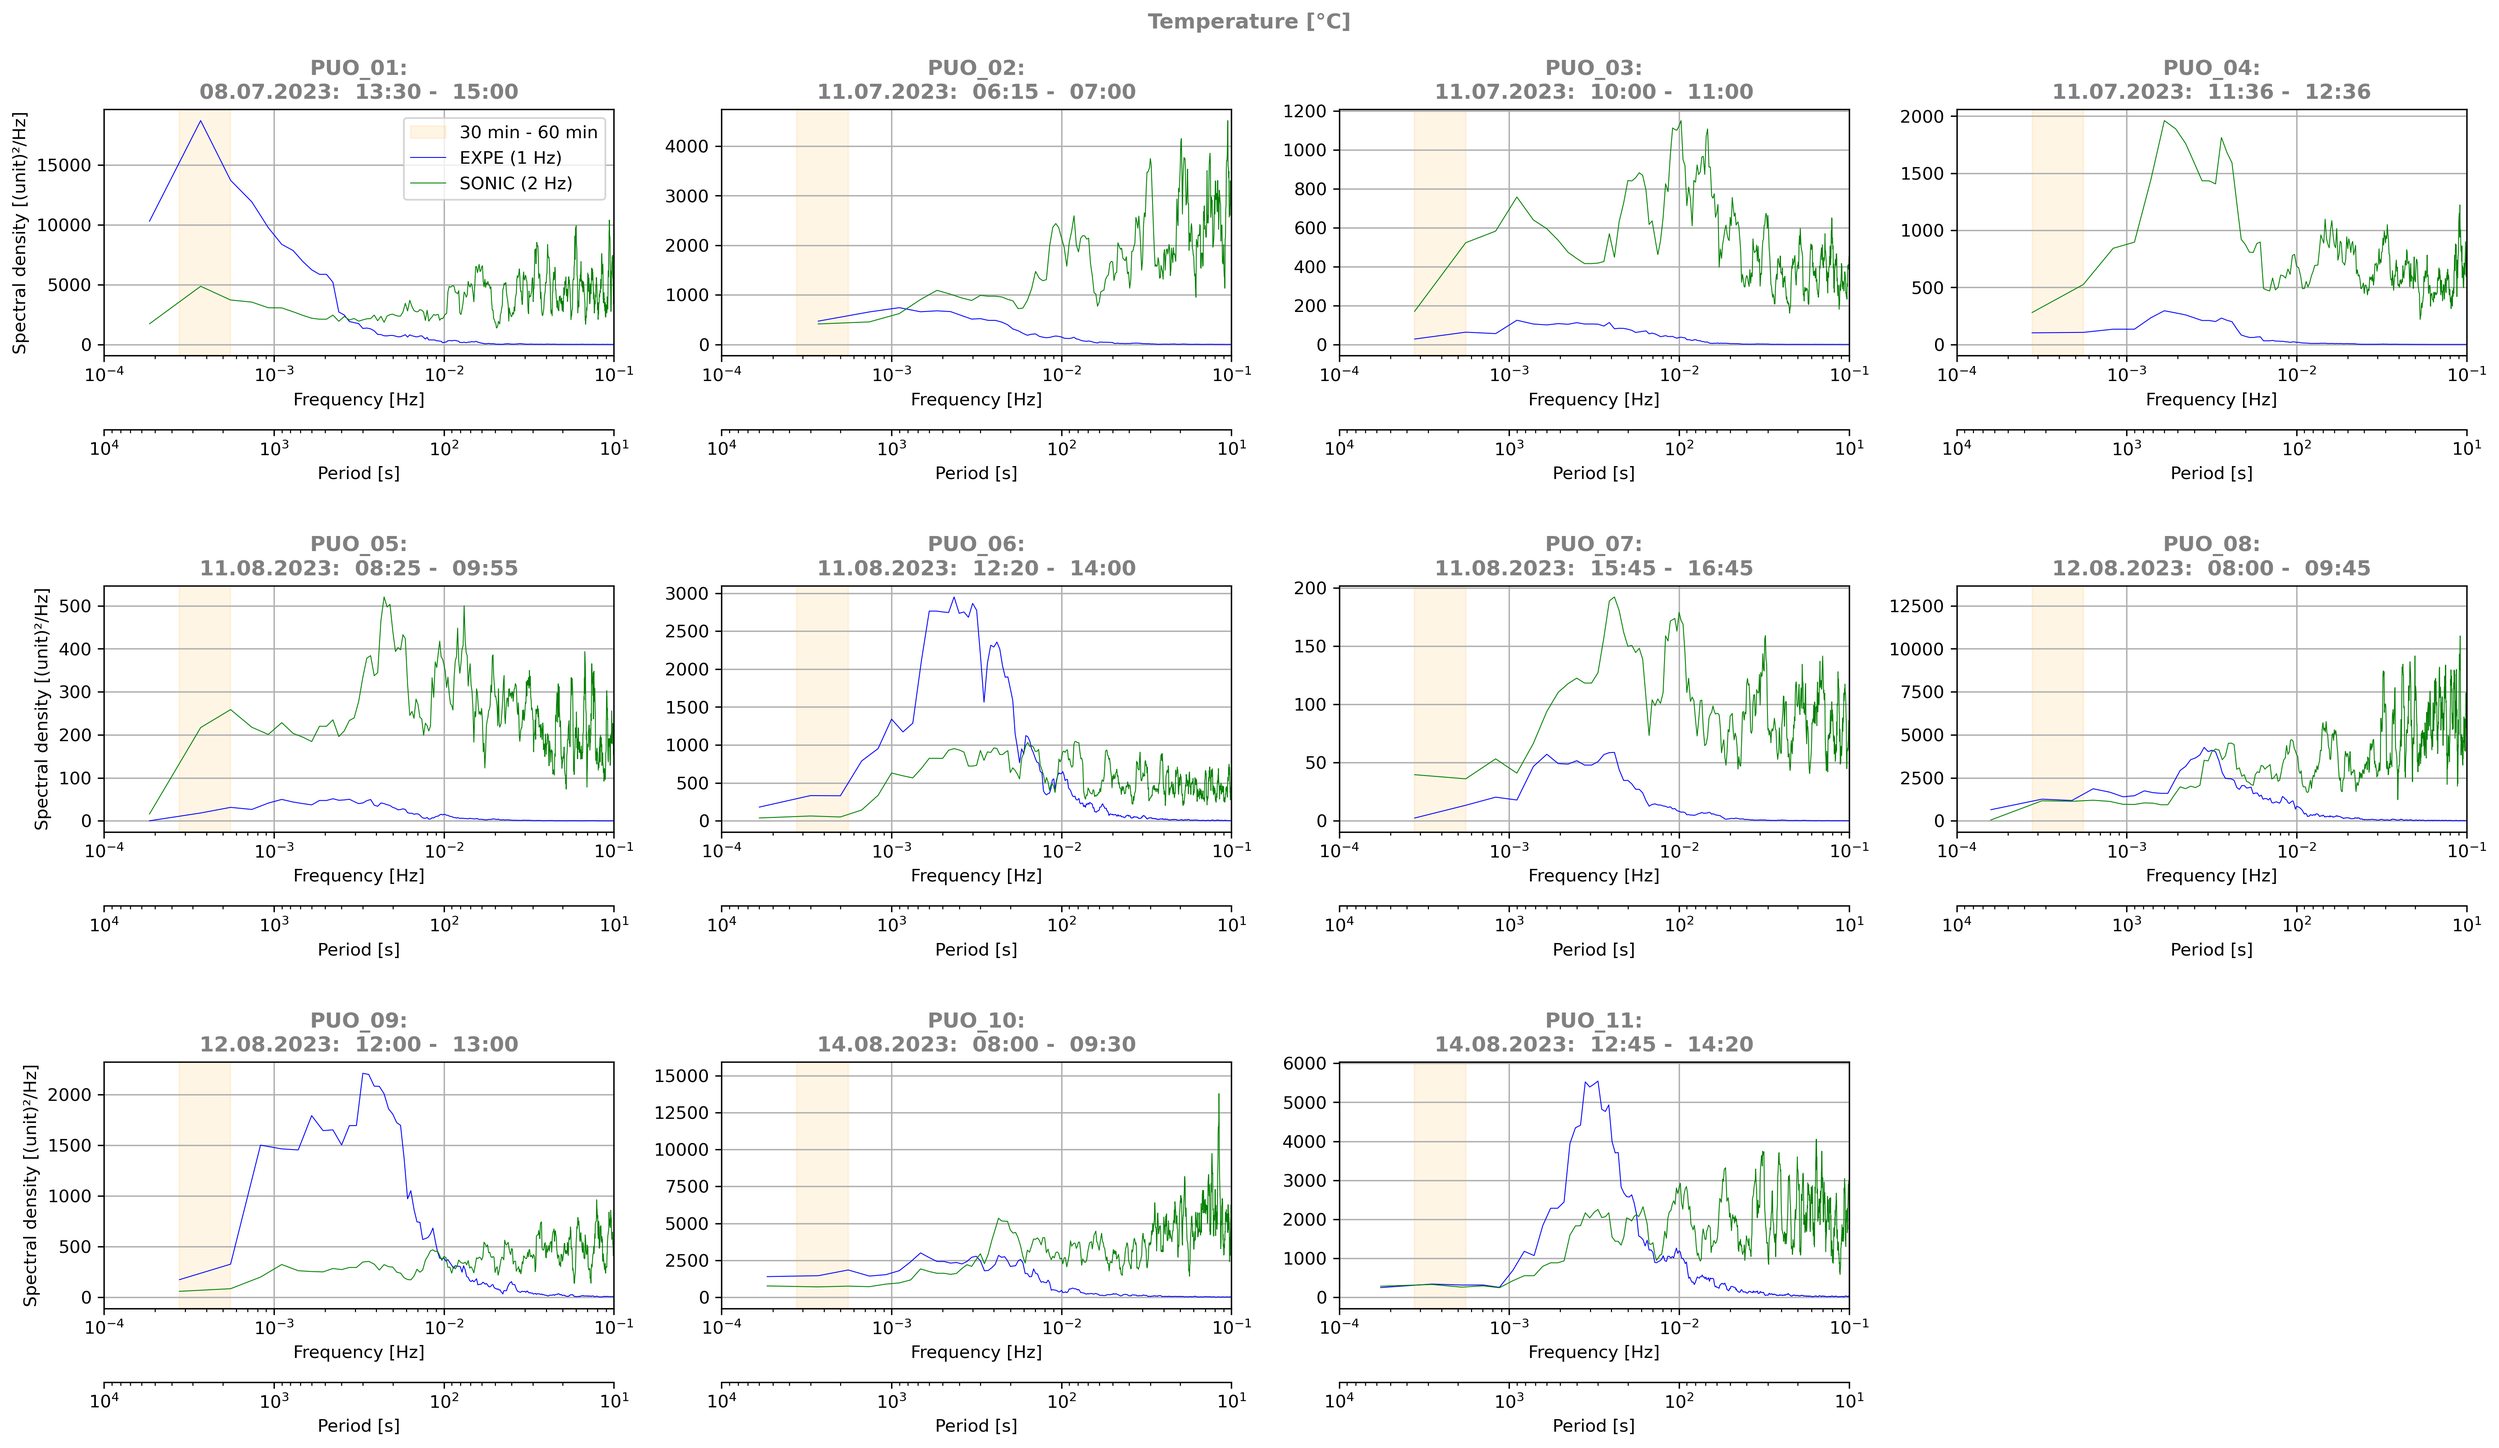
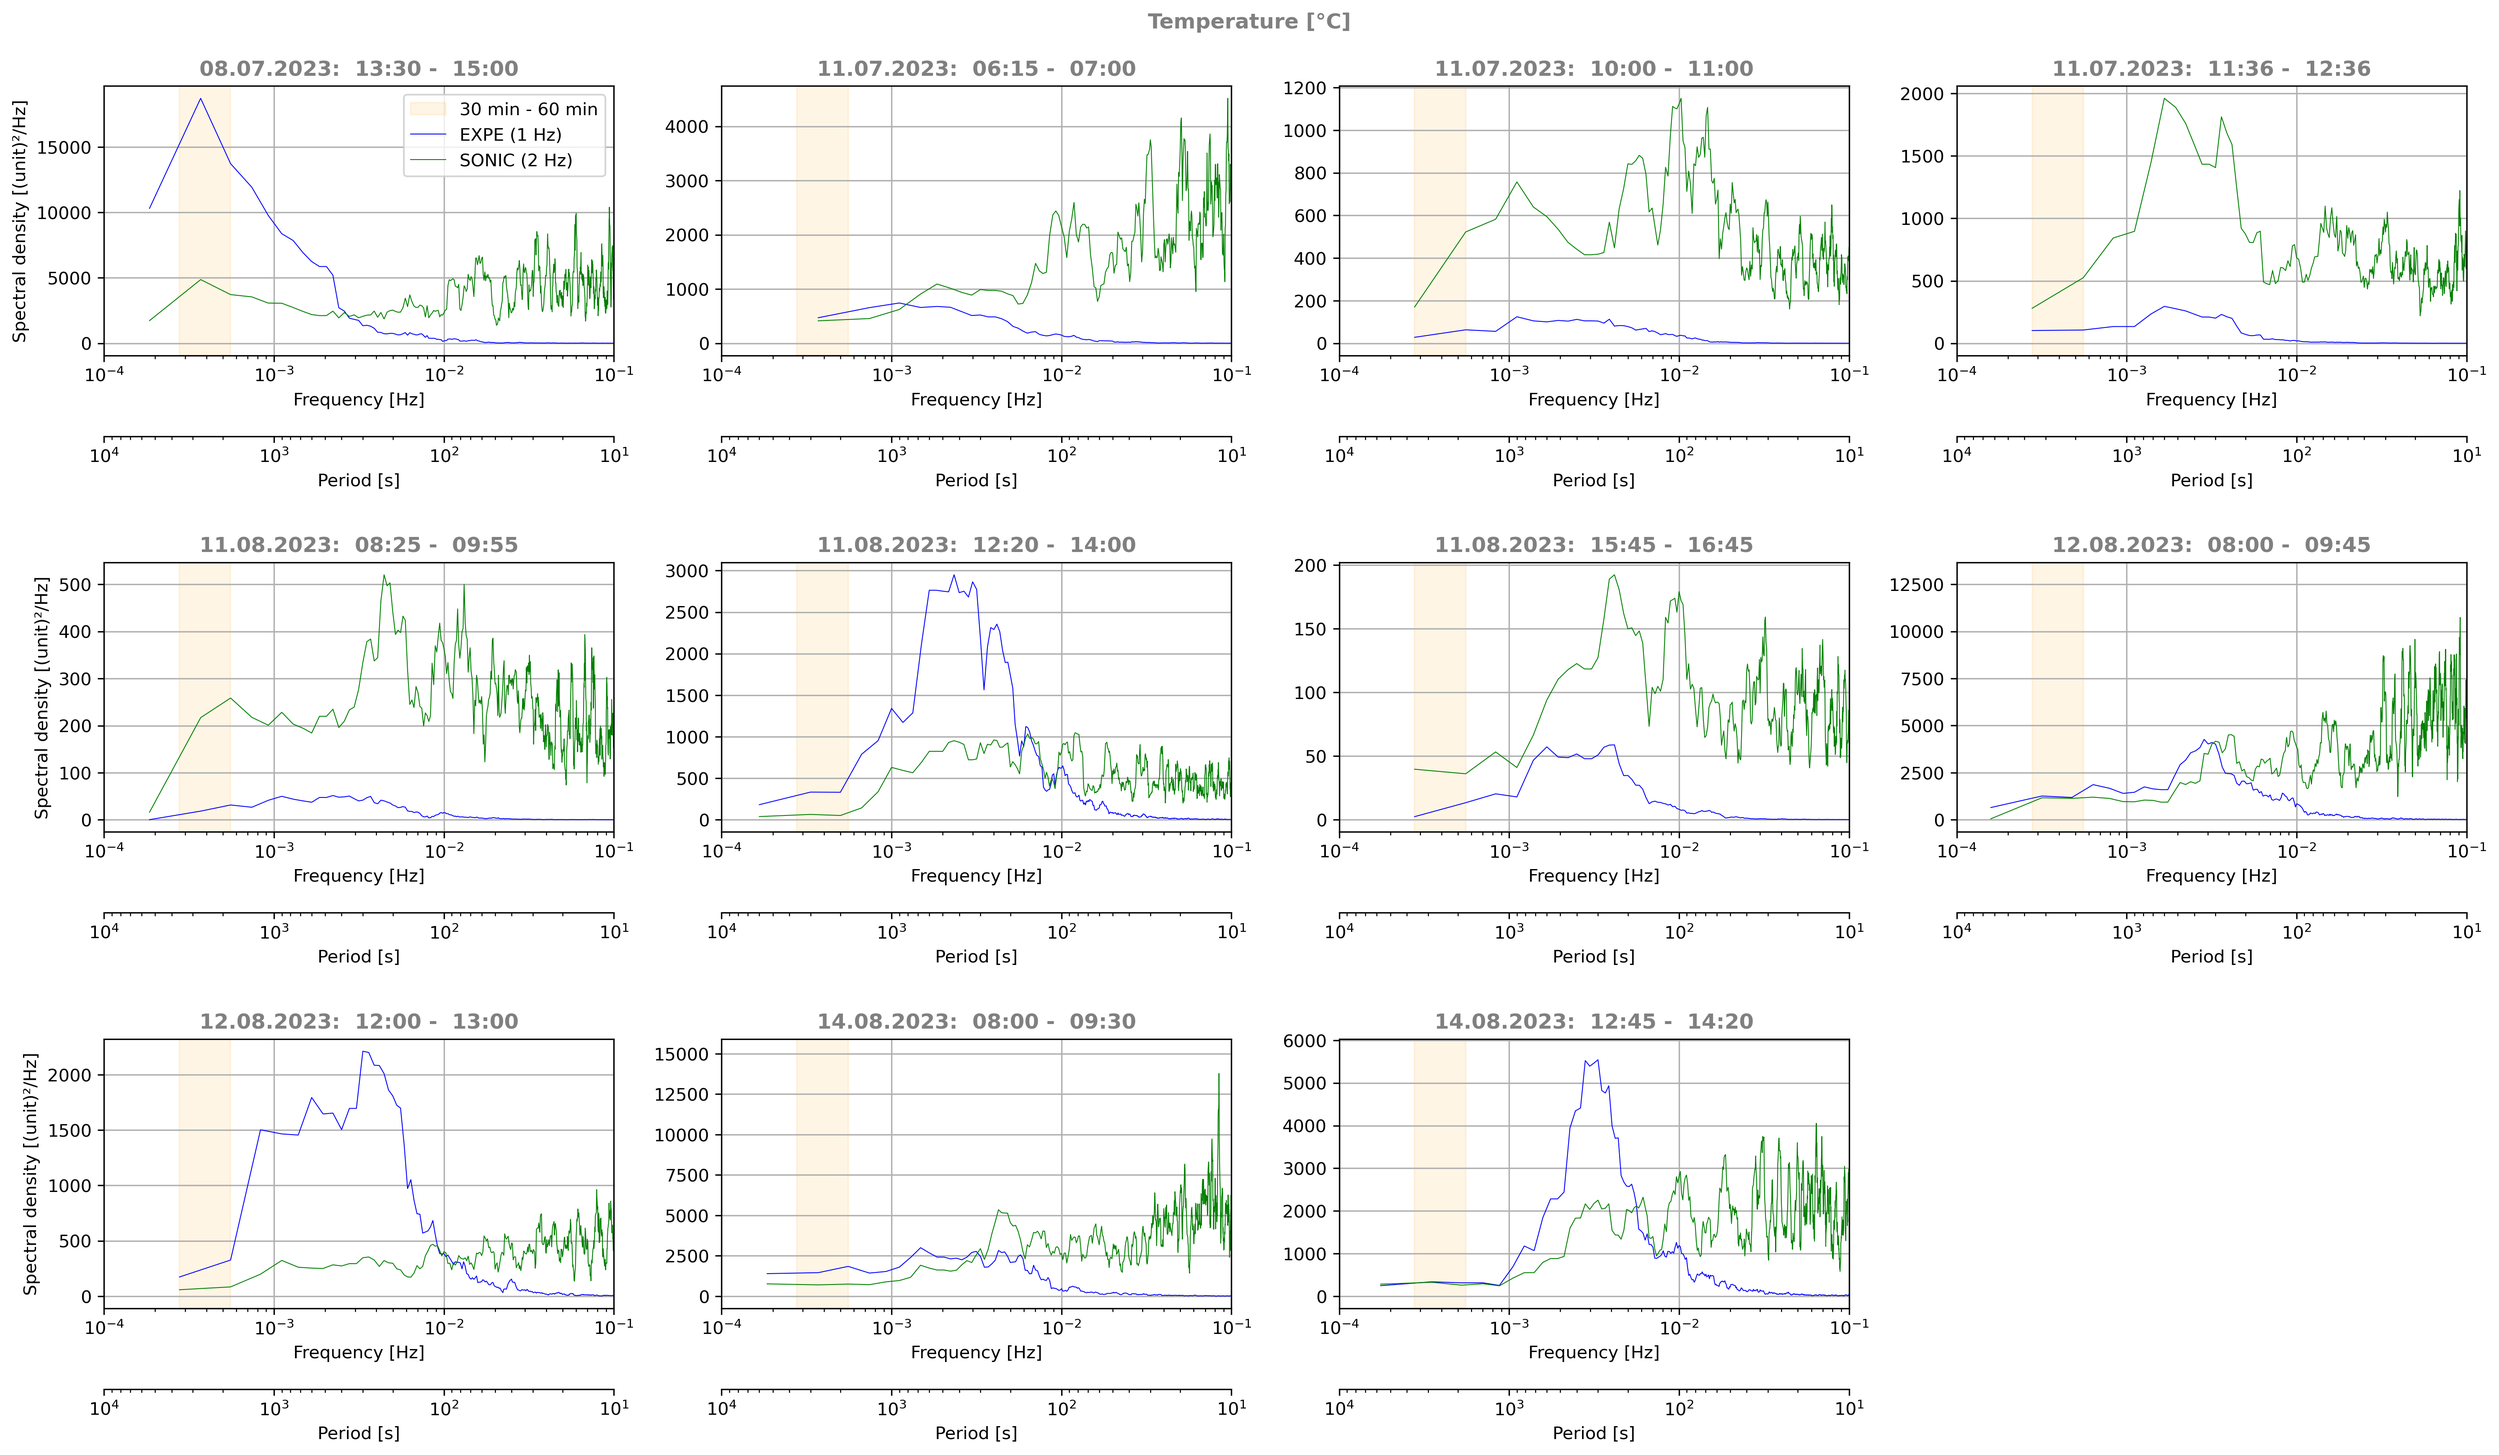
📈 Del "PUO" from plot titles

diff --git a/src/Python_3_11_3/plot.py b/src/Python_3_11_3/plot.py
@@ -111,7 +111,7 @@ def plot_spectrum_comp(device: str) -> None:
             
             # plot setup
             _, _, start_datetime, end_datetime, date, _ = metadata(puo)
-            ax[i // 4, i % 4].set_title(f"{puo}:\n{date}: {start_datetime[10:-3]} - {end_datetime[10:-3]}", **title_kwargs)
+            ax[i // 4, i % 4].set_title(f"{date}: {start_datetime[10:-3]} - {end_datetime[10:-3]}", **title_kwargs)
             ax[0, 0].legend(loc='upper left')
             ax[i // 4, i % 4].set_xlim((1e-4, 1e-1))
             ax[i // 4, i % 4].set_xticks([1e-4, 1e-3, 1e-2, 1e-1])
@@ -152,7 +152,7 @@ def plot_t_spectrum_comp() -> None:
                                 lw=0.5, c="g", label="SONIC (2 Hz)")
             
         _, _, start_datetime, end_datetime, date, _ = metadata(puo)
-        ax[i // 4, i % 4].set_title(f"{puo}:\n{date}: {start_datetime[10:-3]} - {end_datetime[10:-3]}", **title_kwargs)
+        ax[i // 4, i % 4].set_title(f"{date}: {start_datetime[10:-3]} - {end_datetime[10:-3]}", **title_kwargs)
         ax[0, 0].legend(loc='upper right')
         ax[i // 4, i % 4].set_xlim((1e-4, 1e-1))
         ax[i // 4, i % 4].set_xticks([1e-4, 1e-3, 1e-2, 1e-1])
